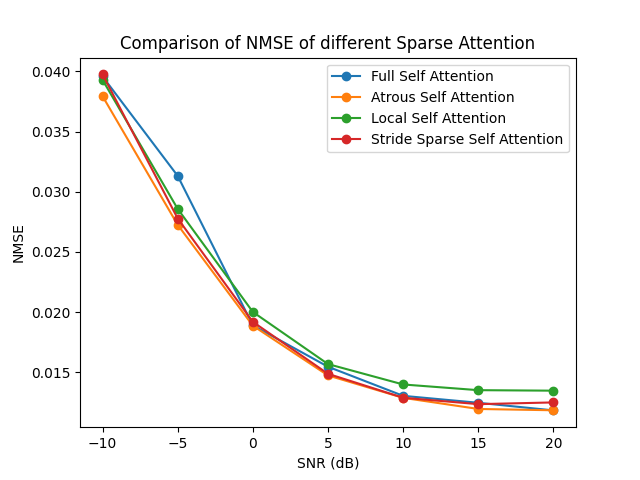
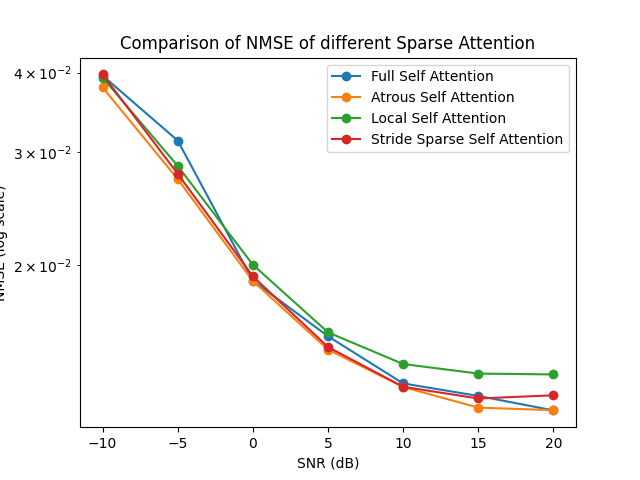
message

diff --git a/SPR-CNN/result-BatchNormalization-reverse.py b/SPR-CNN/result-BatchNormalization-reverse.py
@@ -34,6 +34,10 @@ y6 = [0.03578875958919525, 0.02395220287144184, 0.017472850158810616, 0.01390750
 # 自己寫的 multi-head self attention, Atrous Self Attention, ff layer 用 Conv1D, change norm position
 y7 = [0.039442263543605804, 0.02432405948638916, 0.021599117666482925, 0.016517218202352524, 0.015613597817718983, 0.014050054363906384, 0.012439227662980556]
 
+# Transformers(Encoder * 2 + Decoder * 2, (16 * 32 * 4)), epochs = 400, lr = 0.0001, batch_size = 32
+# 自己寫的 multi-head self attention, Atrous Self Attention, ff layer 用 Conv1D, 使用 fft(16, 32, 4, 2, 2)
+y8 = [0.04002300277352333, 0.025759074836969376, 0.028633849695324898, 0.01591109298169613, 0.01619063876569271, 0.014287014491856098, 0.013909406960010529]
+
 # draw
 # plt.plot(x, y1, marker='o', label='CNN')
 plt.plot(x, y2, marker='o', label='Full Self Attention')
@@ -42,6 +46,7 @@ plt.plot(x, y4, marker='o', label='Atrous Self Attention with Convolution layer'
 plt.plot(x, y5, marker='o', label='Atrous Self Attention with Convolution layer and BatchNormalization')
 plt.plot(x, y6, marker='o', label='Atrous Self Attention with Convolution layer with reverse')
 plt.plot(x, y7, marker='o', label='Atrous Self Attention with Convolution layer with changing norm position')
+plt.plot(x, y8, marker='o', label='Atrous Self Attention with Convolution layer with fft')
 
 
 # set y-axis to log scale
@@ -96,6 +101,10 @@ y6 = [15.527766755550392, 15.635012816385569, 15.693383651016465, 15.72540255924
 # 自己寫的 multi-head self attention, Atrous Self Attention, ff layer 用 Conv1D, change norm position
 y7 = [15.494502152019606, 15.631655688035869, 15.65623851411047, 15.701972776773513, 15.710089680065902, 15.724123697543275, 15.738567858253838]
 
+# Transformers(Encoder * 2 + Decoder * 2, (16 * 32 * 4)), epochs = 400, lr = 0.0001, batch_size = 32
+# 自己寫的 multi-head self attention, Atrous Self Attention, ff layer 用 Conv1D, 使用 fft(16, 32, 4, 2, 2)
+y8 = [15.489207487952974, 15.618692996837884, 15.592689694203141, 15.707417936913393, 15.704906880100955, 15.721997719195706, 15.725385431670285]
+
 # draw
 # plt.plot(x, y1, marker='o', label='CNN')
 plt.plot(x, y2, marker='o', label='Full Self Attention')
@@ -104,6 +113,7 @@ plt.plot(x, y4, marker='o', label='Atrous Self Attention with Convolution layer'
 plt.plot(x, y5, marker='o', label='Atrous Self Attention with Convolution layer and BatchNormalization')
 plt.plot(x, y6, marker='o', label='Atrous Self Attention with Convolution layer with reverse')
 plt.plot(x, y7, marker='o', label='Atrous Self Attention with Convolution layer with changing norm position')
+plt.plot(x, y8, marker='o', label='Atrous Self Attention with Convolution layer with fft')
 
 # set y-axis to log scale
 plt.yscale('log')

diff --git a/SPR-CNN/result.py b/SPR-CNN/result.py
@@ -103,10 +103,13 @@ plt.plot(x, y2, marker='o', label='Atrous Self Attention')
 plt.plot(x, y3, marker='o', label='Local Self Attention')
 plt.plot(x, y4, marker='o', label='Stride Sparse Self Attention')
 
+# set y-axis to log scale
+plt.yscale('log')
+
 # add title and axis labels
 plt.title('Comparison of NMSE of different Sparse Attention')
 plt.xlabel('SNR (dB)')
-plt.ylabel('NMSE')
+plt.ylabel('NMSE (log scale)')
 
 # add legend
 plt.legend()
@@ -151,10 +154,13 @@ plt.plot(x, y2, marker='o', label='Atrous Self Attention')
 plt.plot(x, y3, marker='o', label='Local Self Attention')
 plt.plot(x, y4, marker='o', label='Stride Sparse Self Attention')
 
+# set y-axis to log scale
+plt.yscale('log')
+
 # add title and axis labels
 plt.title('Comparison of sum rate of different Sparse Attention')
 plt.xlabel('SNR (dB)')
-plt.ylabel('sum rate(bandwith = 10)')
+plt.ylabel('sum rate(bandwith = 10) (log scale)')
 
 # add legend
 plt.legend()
@@ -214,7 +220,7 @@ plt.plot(x, y4, marker='o', label='Atrous Self Attention with Convolution layer'
 plt.yscale('log')
 
 # add title and axis labels
-plt.title('Comparison of NMSE of Atrous Self Attention with Convolution layer and Others')
+plt.title('Comparison of NMSE of Atrous Self Attention with Convolution layer')
 plt.xlabel('SNR (dB)')
 plt.ylabel('NMSE (log scale)')
 
@@ -222,7 +228,7 @@ plt.ylabel('NMSE (log scale)')
 plt.legend()
 
 # save the plot
-plt.savefig('Comparison of NMSE of Atrous Self Attention with Convolution layer and Others')
+plt.savefig('Comparison of NMSE of Atrous Self Attention with Convolution layer')
 
 # display the plot
 plt.grid(True)
@@ -260,7 +266,7 @@ plt.plot(x, y4, marker='o', label='Atrous Self Attention with Convolution layer'
 plt.yscale('log')
 
 # add title and axis labels
-plt.title('Comparison of sum rate of Atrous Self Attention with Convolution layer and Others')
+plt.title('Comparison of sum rate of Atrous Self Attention with Convolution layer')
 plt.xlabel('SNR (dB)')
 plt.ylabel('sum rate(bandwith = 10) (log scale)')
 
@@ -268,7 +274,7 @@ plt.ylabel('sum rate(bandwith = 10) (log scale)')
 plt.legend()
 
 # save the plot
-plt.savefig('Comparison of sum rate of Atrous Self Attention with Convolution layer and Others')
+plt.savefig('Comparison of sum rate of Atrous Self Attention with Convolution layer')
 
 # display the plot
 plt.grid(True)
